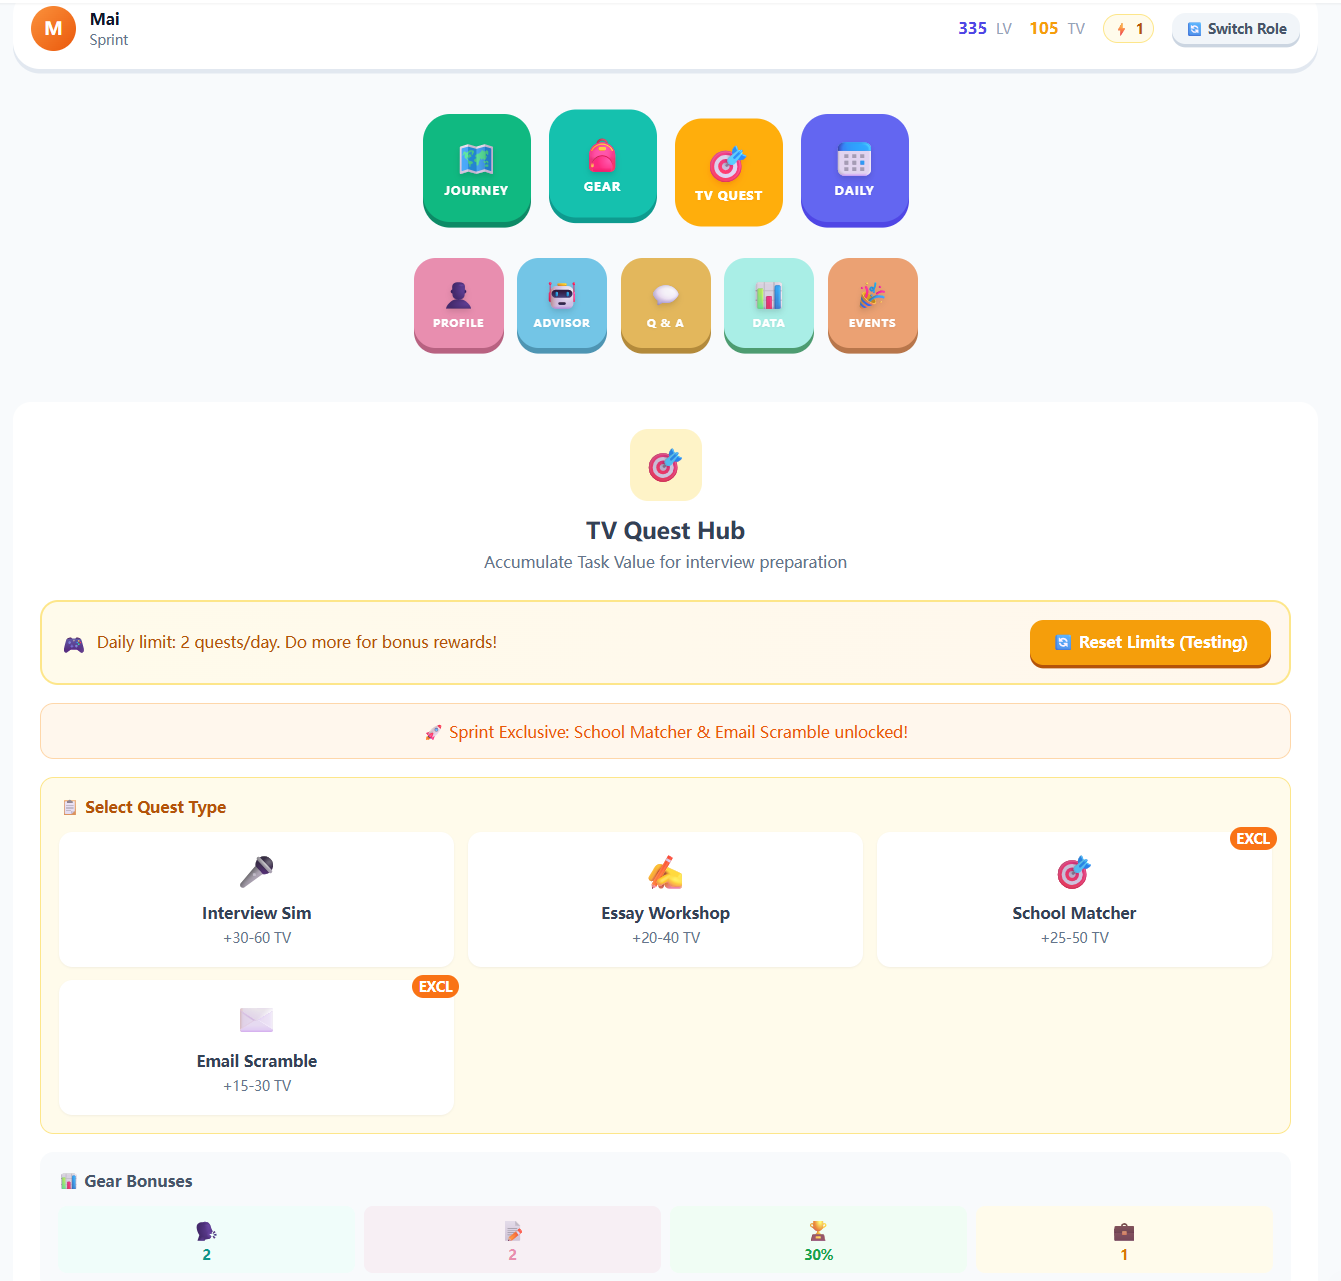
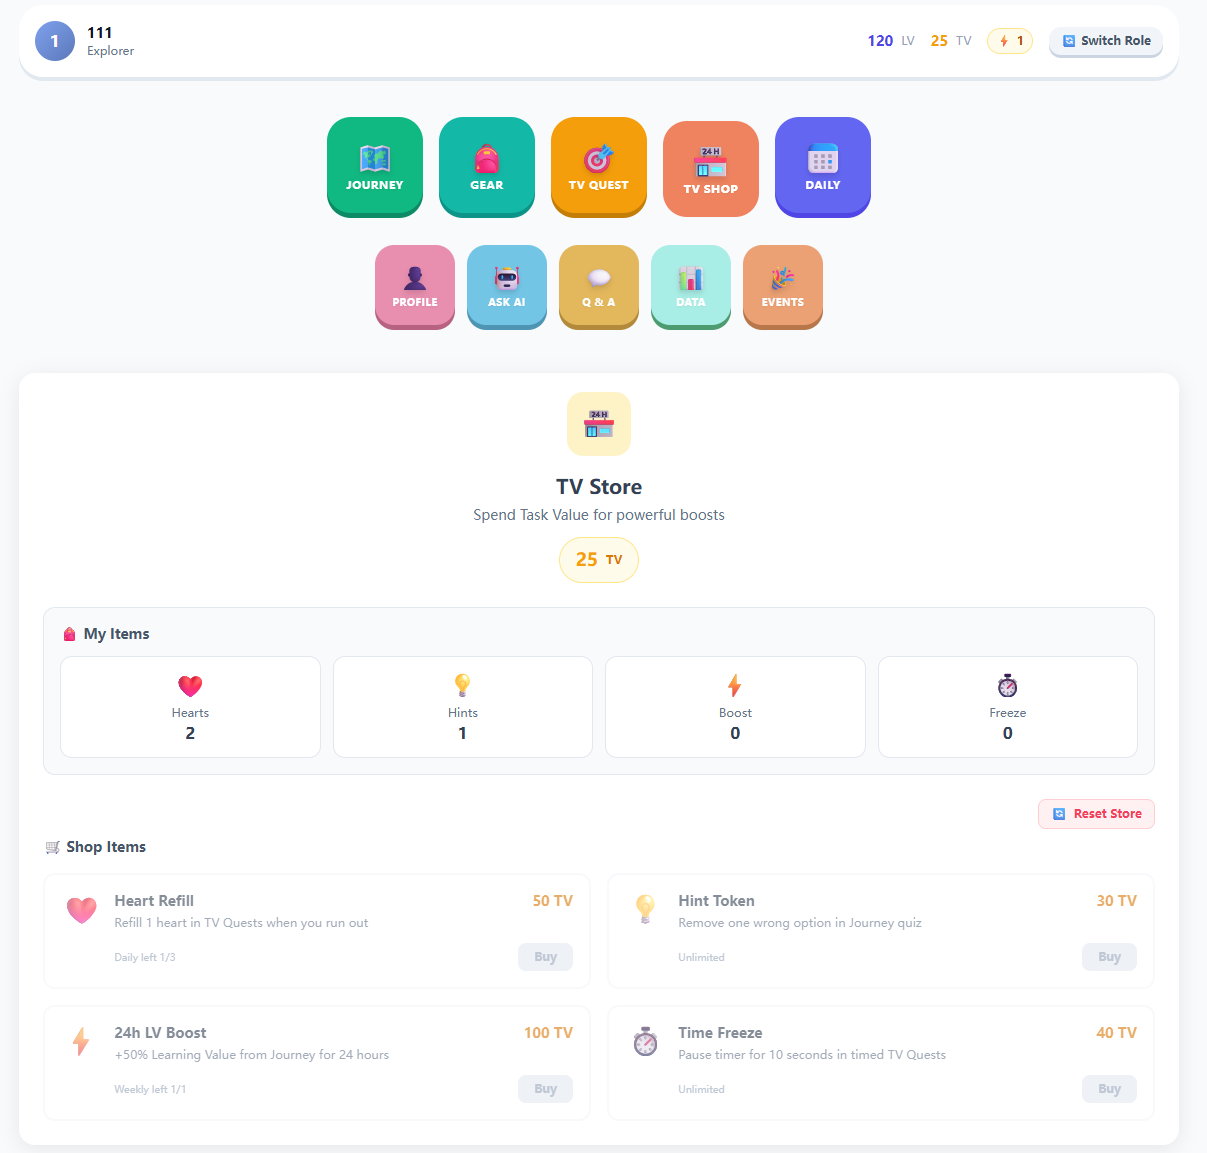
更新原型等页面，按邮件要求调整，增加 V4.0 UI、迭代时间线和数据流逻辑,更新readme

diff --git a/src/components/PrototypeShowcase.vue b/src/components/PrototypeShowcase.vue
@@ -47,19 +47,19 @@
             </h3>
             <div class="grid grid-cols-2 md:grid-cols-5 gap-3">
               <div class="text-center p-3 bg-white rounded-lg border border-blue-200 shadow-sm">
-                <div class="text-2xl mb-1">🧭</div><div class="text-xs text-gray-500">Stage 1</div><h4 class="font-bold text-gray-800 text-sm">Identity</h4>
+                <div class="text-2xl mb-1">🧭</div><div class="text-xs text-gray-500">Stage 1</div><h4 class="font-bold text-gray-800 text-sm">Discovery</h4>
               </div>
               <div class="text-center p-3 bg-white rounded-lg border border-blue-200 shadow-sm">
-                <div class="text-2xl mb-1">🔍</div><div class="text-xs text-gray-500">Stage 2</div><h4 class="font-bold text-gray-800 text-sm">Research</h4>
+                <div class="text-2xl mb-1">🔍</div><div class="text-xs text-gray-500">Stage 2</div><h4 class="font-bold text-gray-800 text-sm">Research & Funding</h4>
               </div>
               <div class="text-center p-3 bg-white rounded-lg border border-blue-200 shadow-sm">
-                <div class="text-2xl mb-1">✍</div><div class="text-xs text-gray-500">Stage 3</div><h4 class="font-bold text-gray-800 text-sm">Essays</h4>
+                <div class="text-2xl mb-1">✍</div><div class="text-xs text-gray-500">Stage 3</div><h4 class="font-bold text-gray-800 text-sm">Craft & Submit</h4>
               </div>
               <div class="text-center p-3 bg-white rounded-lg border border-blue-200 shadow-sm">
-                <div class="text-2xl mb-1">⚖</div><div class="text-xs text-gray-500">Stage 4</div><h4 class="font-bold text-gray-800 text-sm">Decide</h4>
+                <div class="text-2xl mb-1">⚖</div><div class="text-xs text-gray-500">Stage 4</div><h4 class="font-bold text-gray-800 text-sm">Connect & Interview</h4>
               </div>
               <div class="text-center p-3 bg-white rounded-lg border border-blue-200 shadow-sm">
-                <div class="text-2xl mb-1">🗺</div><div class="text-xs text-gray-500">Stage 5</div><h4 class="font-bold text-gray-800 text-sm">Plan</h4>
+                <div class="text-2xl mb-1">🗺</div><div class="text-xs text-gray-500">Stage 5</div><h4 class="font-bold text-gray-800 text-sm">Decide & Depart</h4>
               </div>
             </div>
           </div>
@@ -71,19 +71,19 @@
             </h3>
             <div class="grid grid-cols-2 md:grid-cols-5 gap-3">
               <div class="text-center p-3 bg-white rounded-lg border border-orange-200 shadow-sm">
-                <div class="text-2xl mb-1">🎯</div><div class="text-xs text-gray-500">Stage 1</div><h4 class="font-bold text-gray-800 text-sm">Goals</h4>
+                <div class="text-2xl mb-1">🎯</div><div class="text-xs text-gray-500">Stage 1</div><h4 class="font-bold text-gray-800 text-sm">Target & Plan</h4>
               </div>
               <div class="text-center p-3 bg-white rounded-lg border border-orange-200 shadow-sm">
-                <div class="text-2xl mb-1">📋</div><div class="text-xs text-gray-500">Stage 2</div><h4 class="font-bold text-gray-800 text-sm">Materials</h4>
+                <div class="text-2xl mb-1">📋</div><div class="text-xs text-gray-500">Stage 2</div><h4 class="font-bold text-gray-800 text-sm">Materials & Funding</h4>
               </div>
               <div class="text-center p-3 bg-white rounded-lg border border-orange-200 shadow-sm">
-                <div class="text-2xl mb-1">🚀</div><div class="text-xs text-gray-500">Stage 3</div><h4 class="font-bold text-gray-800 text-sm">Submit</h4>
+                <div class="text-2xl mb-1">🚀</div><div class="text-xs text-gray-500">Stage 3</div><h4 class="font-bold text-gray-800 text-sm">Apply & Submit</h4>
               </div>
               <div class="text-center p-3 bg-white rounded-lg border border-orange-200 shadow-sm">
-                <div class="text-2xl mb-1">💬</div><div class="text-xs text-gray-500">Stage 4</div><h4 class="font-bold text-gray-800 text-sm">Interview</h4>
+                <div class="text-2xl mb-1">💬</div><div class="text-xs text-gray-500">Stage 4</div><h4 class="font-bold text-gray-800 text-sm">Interview & Connect</h4>
               </div>
               <div class="text-center p-3 bg-white rounded-lg border border-orange-200 shadow-sm">
-                <div class="text-2xl mb-1">🏆</div><div class="text-xs text-gray-500">Stage 5</div><h4 class="font-bold text-gray-800 text-sm">Success</h4>
+                <div class="text-2xl mb-1">🏆</div><div class="text-xs text-gray-500">Stage 5</div><h4 class="font-bold text-gray-800 text-sm">Decide & Go</h4>
               </div>
             </div>
           </div>
@@ -276,7 +276,7 @@
           <div class="flex items-start gap-3 p-4 bg-orange-50 rounded-xl shadow-sm border border-orange-100 transition-hover hover:shadow-md">
             <span class="font-bold text-orange-700 shrink-0 text-lg">② Frontend Processing</span>
             <span class="text-sm text-gray-700 leading-relaxed">
-              Vue 3 reactive state: Calculates LV (Learning) and TV (Task) gains, dynamically applying <strong>Gear System multipliers (+5% per level)</strong> and continuous <strong>Combo bonuses</strong>.
+              Vue 3 reactive state: Calculates LV (Learning) and TV (Task) gains, dynamically applying <strong>Gear System multipliers (up to +195% total bonus)</strong> and continuous <strong>Combo bonuses</strong>.
             </span>
           </div>
           
@@ -423,7 +423,18 @@
               <!-- ⚠ 请将这里的 src 替换为你 V4.0 第三张截图的真实路径 -->
               <img src="/images/docx/module5_prototype/10.png" alt="Version 4.0 UI Preview 3" class="w-full h-auto object-cover">
             </div>
-            
+            <div class="rounded-xl overflow-hidden border border-gray-200 shadow-sm hover:shadow-md transition-shadow bg-gray-50">
+              <!-- ⚠ 请将这里的 src 替换为你 V4.0 第三张截图的真实路径 -->
+              <img src="/images/docx/module5_prototype/12.png" alt="Version 4.0 UI Preview 4" class="w-full h-auto object-cover">
+            </div>
+            <div class="rounded-xl overflow-hidden border border-gray-200 shadow-sm hover:shadow-md transition-shadow bg-gray-50">
+              <!-- ⚠ 请将这里的 src 替换为你 V4.0 第三张截图的真实路径 -->
+              <img src="/images/docx/module5_prototype/13.png" alt="Version 4.0 UI Preview 5" class="w-full h-auto object-cover">
+            </div>
+            <div class="rounded-xl overflow-hidden border border-gray-200 shadow-sm hover:shadow-md transition-shadow bg-gray-50">
+              <!-- ⚠ 请将这里的 src 替换为你 V4.0 第三张截图的真实路径 -->
+              <img src="/images/docx/module5_prototype/14.png" alt="Version 4.0 UI Preview 6" class="w-full h-auto object-cover">
+            </div>
           </div>
         </div>
         <p class="text-sm text-gray-400 text-center mt-6 mb-8">Version 4.0 is available as an interactive demo - visit the /demo route to play the game</p>
@@ -535,7 +546,7 @@ const coreSteps = [
   },
   { 
     title: 'Embark on Dual-Path Stages', 
-    desc: 'Progress through a tailored 5-stage journey. Explorers focus on "Identity & Research", while Sprinters tackle "Goals, Materials & Interviews".' 
+    desc: 'Progress through a tailored 5-stage journey. Explorers focus on "Discovery" and "Research & Funding", while Sprinters tackle "Target & Plan" and "Materials & Funding".' 
   },
   { 
     title: 'Accumulate LV & TV via Mini-Games', 

diff --git a/README.md b/README.md
@@ -6,14 +6,13 @@ A gamified web application for XJTLU students to learn about postgraduate applic
 
 **MasterApply Quest** is an interactive text-based adventure game designed to help students navigate the postgraduate application journey through engaging gameplay and structured learning.
 
-### Key Features
 
 ### Key Features
 
-- 🎯 **5 Role-Specific Application Stages**: Tailored paths for Explorers (Identity → Research → Essays → Decide → Plan) and Sprinters (Goals → Materials → Submit → Interview → Success)
+- 🎯 **5 Role-Specific Application Stages**: Tailored paths for Explorers (Discovery → Research & Funding → Craft & Submit → Connect & Interview → Decide & Depart) and Sprinters (Target & Plan → Materials & Funding → Apply & Submit → Interview & Connect → Decide & Go)
 - 👥 **Dual Role System**: Explorer (Year 2) and Sprint (Year 3) with customized content and visuals for each
 - 🎮 **Mini-Games (TV Quests)**: Role-specific interactive challenges (e.g., Timeline Puzzle, School Matcher) to test practical skills
-- 📊 **Dual Value & Gear System**: Spend Learning Value (theory) to upgrade gears for Task Value (practice) multipliers
+- 📊 **Dual Value & Gear System**: Spend Learning Value (theory) to upgrade gears for Task Value (practice) multipliers (up to +195% total bonus)
 - 🏆 **Achievement System**: Unlock badges and rewards as you progress
 - 📱 **Responsive Design**: Optimized for both mobile and desktop experiences
 - 📖 **Story Unlock Mechanism**: Reach value thresholds to unlock exclusive strategy guides
@@ -105,6 +104,12 @@ Output will be in the `dist/` directory.
 │   │   └── portfolio/              # Portfolio page components
 │   │       ├── ModuleHeader.vue    # Shared module page header
 │   │       └── TableOfContents.vue # Auto-generated TOC component
+│   │   ├── GearShop.vue            # Gear upgrade shop (spend LV)
+│   │   ├── TVStore.vue             # TV item store & reset system
+│   │   ├── DocumentRush.vue        # 21-round document proofreading mini-game
+│   │   ├── TimelinePuzzle.vue      # 6-level timeline sorting mini-game
+│   │   ├── SchoolMatcher.vue       # 7-level university matching mini-game
+│   │   ├── EmailScramble.vue       # 5-scenario email sorting mini-game
 │   ├── views/                      # Portfolio page views (routes)
 │   │   ├── Home.vue
 │   │   ├── Introduction.vue
@@ -165,19 +170,18 @@ Output will be in the `dist/` directory.
 To provide a highly personalized experience, the system abandons the "one-size-fits-all" approach and offers two distinct 5-stage learning paths tailored to the specific needs of each user persona:
 
 **🧭 The Explorer Path (Year 2 Focus)**
-1. **Identity** - Understand personal interests, strengths, and initial directions.
-2. **Research** - Deep dive into target countries, universities, and academic programs.
-3. **Essays** - Build the foundational narrative for a compelling Personal Statement (PS) and CV.
-4. **Decide** - Evaluate different postgraduate paths and career options.
-5. **Plan** - Formulate an actionable long-term background improvement plan.
+1. **Discovery** - Interest analysis, university research, major matching, and creating a target list.
+2. **Research & Funding** - Material checklists, scholarships, recommendation letters, and grade accreditation.
+3. **Craft & Submit** - PS writing, CV optimization, online application submission, and research proposals.
+4. **Connect & Interview** - Interview simulation, cold emailing professors, Q&A practice, and interview follow-ups.
+5. **Decide & Depart** - Offer comparison, scholarship evaluation, visa processing, and pre-departure checklists.
 
 **🚀 The Sprint Path (Year 3 Focus)**
-1. **Goals** - Lock in specific target (reach, match, and safety) universities.
-2. **Materials** - Efficiently prepare transcripts, language certificates, and recommendation letters.
-3. **Submit** - Navigate and conquer various university online application systems.
-4. **Interview** - Master high-frequency questions and practical interview techniques.
-5. **Success** - Track application status, accept offers, and prepare for departure.
-
+1. **Target & Plan** - Application targets, ranking analysis, timelines, and reach/safety strategies.
+2. **Materials & Funding** - Material preparation, scholarships, recommendation follow-ups, and score reporting.
+3. **Apply & Submit** - Essay finalization, CV finalization, online application filling, and material confirmation.
+4. **Interview & Connect** - Interview question banks, mock interviews, email templates, and contacting professors.
+5. **Decide & Go** - Offer decisions, tuition evaluation, visa processing, and departure checklists.
 ### Daily Quests
 
 Refreshable daily challenges that reset every 24 hours:
@@ -190,20 +194,27 @@ Refreshable daily challenges that reset every 24 hours:
 
 Streak rewards for consecutive correct answers:
 
-| Combo | Bonus |
-|-------|-------|
-| 3+ | +15% points |
-| 5+ | +25% points |
-| 10+ | +50% points |
+| Combo | Bonus | Achievement |
+|-------|-------|-------------|
+| 3+ | +15% points | - |
+| 5+ | +25% points | - |
+| 10+ | +50% points | Unlocks "Combo Master" |
+| 15+ | +75% points | Unlocks "Combo Legend" | 
+
 
 ### Achievement System
 
-Unlock badges through gameplay achievements:
-- First Quiz Complete
-- Explorer/Sprint Role Master
-- Combo Champion
-- Daily Quest Hero
-- Guide Collector
+Unlock 13 unique badges through gameplay progression:
+- **First Step**: Complete your first level
+- **Quiz Master**: Get 50 correct answers
+- **Combo Master & Legend**: Reach 10 and 15 max combos
+- **Week Warrior**: Maintain a 7-day streak
+- **Learning Guru & Task Master**: Accumulate large amounts of LV and TV
+- **Perfect Student**: Achieve perfect scores on 3 levels
+- **Halfway There & Journey Complete**: Complete 3 and 5 levels respectively
+- **Big Spender**: Spend 500 TV in the store
+- **Hint Master**: Use 10 Hint Tokens
+- **Gear Master**: Max out all gears
 
 ## 🎓 Course Information
 
